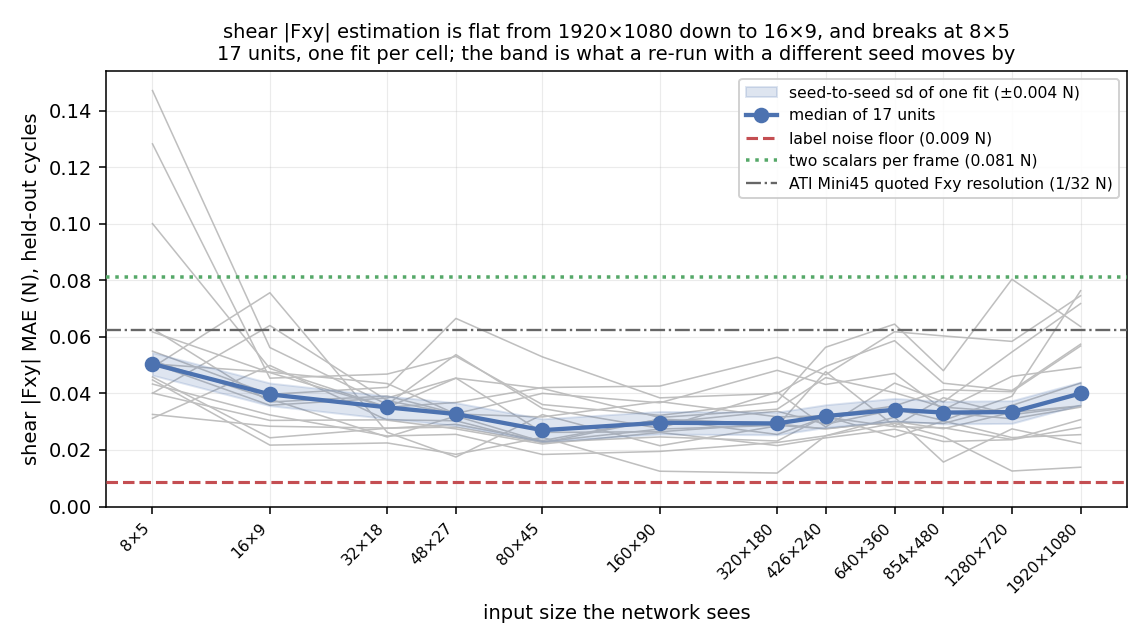
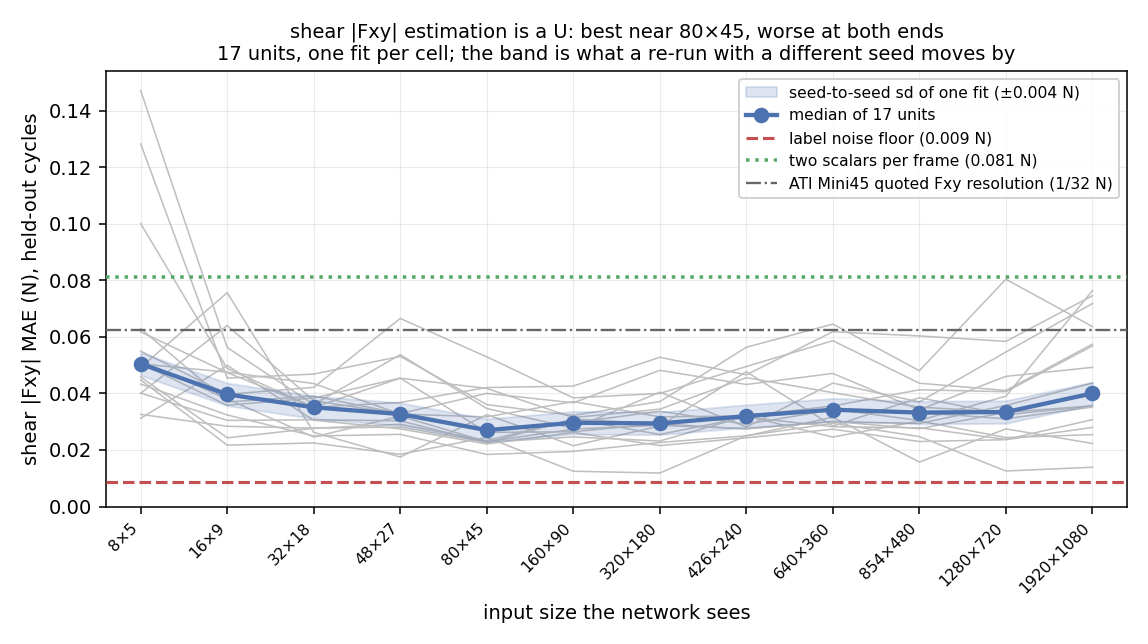
force estimation figures: evenly spaced axes, and the shear plot says what shear does
The y axes went linear in the last commit but the x stayed log, which crowded
640/854/1280/1920 into the right-hand fifth and still read as a log plot. The
twelve sizes are a ladder, not samples of a continuous variable, so x is now
categorical and evenly spaced. y ticks come from a MaxNLocator on 1/2/2.5/5
steps, so they are round and evenly spaced too.

It changes what one figure shows: the shear U -- minimum at 80x45, rising to
both ends -- was flattened on the right by the log x, and reads clearly now.

The shear plot also carried the Fz headline. A single f-string title had put
'flat from 1920x1080 down to 16x9, and breaks at 8x5' above a curve that is
neither flat nor breaking; it is a U. Titles are per-channel now.

diff --git a/scripts/make_force_figures.py b/scripts/make_force_figures.py
@@ -12,7 +12,8 @@ from pathlib import Path
 
 import matplotlib
 matplotlib.use("Agg")
-import matplotlib.pyplot as plt          # noqa: E402
+import matplotlib.pyplot as plt
+from matplotlib.ticker import MaxNLocator          # noqa: E402
 import numpy as np                       # noqa: E402
 import pandas as pd                      # noqa: E402
 from mpl_toolkits.mplot3d import Axes3D   # noqa: F401,E402
@@ -55,15 +56,21 @@ def label_noise(axis="fz"):
 def fig_resolution(f, seed, floor, scalar, col="fz_mae", name="Fz", out="force_vs_resolution.png"):
     fig, ax = plt.subplots(figsize=(8.2, 4.6))
     w = sorted(f.width_px.unique())
+    # x is CATEGORICAL and evenly spaced (operator, 2026-09-08). The twelve
+    # sizes are a ladder, not samples of a continuous variable, and a log x
+    # crowded the four largest into the right-hand fifth of the plot -- which
+    # reads as a log axis even after the y was made linear.
+    xi = {v: i for i, v in enumerate(w)}
     for s, g in f.groupby("sensor"):
         g = g.sort_values("width_px")
-        ax.plot(g.width_px, g[col], color="0.75", lw=0.8, zorder=1)
+        ax.plot([xi[v] for v in g.width_px], g[col], color="0.75", lw=0.8, zorder=1)
     med = f.groupby("width_px")[col].median().reindex(w)
     # the seed band: what one fit scatters by with everything else held fixed
     sd = seed.groupby(["sensor", "width_px"])[col].std(ddof=1).median()
-    ax.fill_between(w, med - sd, med + sd, color="#4c72b0", alpha=.18, zorder=2,
+    X = list(range(len(w)))
+    ax.fill_between(X, med - sd, med + sd, color="#4c72b0", alpha=.18, zorder=2,
                     label=f"seed-to-seed sd of one fit (±{sd:.3f} N)")
-    ax.plot(w, med, "o-", color="#4c72b0", lw=2.2, ms=7, zorder=4,
+    ax.plot(X, med, "o-", color="#4c72b0", lw=2.2, ms=7, zorder=4,
             label="median of 17 units")
     ax.axhline(np.median(list(floor.values())), color="#c44e52", ls="--", lw=1.6,
                zorder=3, label=f"label noise floor ({np.median(list(floor.values())):.3f} N)")
@@ -75,15 +82,18 @@ def fig_resolution(f, seed, floor, scalar, col="fz_mae", name="Fz", out="force_v
     # y is LINEAR (operator, 2026-09-08). A log y flattens the one thing this
     # figure is for -- how much worse 8x5 is than everything above it -- into a
     # step that looks like the wobble between neighbouring sizes.
-    ax.set_xscale("log")
-    ax.set_xticks(w)
+    ax.set_xticks(X)
     hgt = {int(a): int(b) for a, b in zip(f.width_px, f.height_px)}
     ax.set_xticklabels([f"{a}×{hgt[a]}" for a in w], rotation=45, ha="right", fontsize=8)
+    ax.set_xlim(-0.4, len(w) - 0.6)
     ax.set_ylim(0, None)
+    ax.yaxis.set_major_locator(MaxNLocator(nbins=8, steps=[1, 2, 2.5, 5, 10]))
     ax.minorticks_off()
     ax.set_xlabel("input size the network sees")
     ax.set_ylabel(f"{name} MAE (N), held-out cycles")
-    ax.set_title(f"{name} estimation is flat from 1920×1080 down to 16×9, and breaks at 8×5\n"
+    _sub = ("flat from 1920×1080 down to 16×9, and breaks at 8×5" if col == "fz_mae"
+            else "is a U: best near 80×45, worse at both ends")
+    ax.set_title(f"{name} estimation {_sub}\n"
                  "17 units, one fit per cell; the band is what a re-run with a different seed moves by",
                  fontsize=10)
     ax.grid(alpha=.25, lw=.6)
@@ -105,6 +115,8 @@ def fig_per_unit(f, seed, floor, scalar, col="fz_mae", name="Fz", out="force_vs_
     sd = seed.groupby(["sensor", "width_px"])[col].std(ddof=1).median()
     order = [f"{h}_{t}mm_{r}" for t in THICK for r in ("r1", "r2") for h in HARDS]
     w = sorted(f.width_px.unique())
+    xi = {v: i for i, v in enumerate(w)}      # categorical x, as in fig_resolution
+    X = list(range(len(w)))
     hgt = {int(a): int(b) for a, b in zip(f.width_px, f.height_px)}
     fig, axes = plt.subplots(6, 3, figsize=(11.5, 13.5), sharex=True, sharey=True)
     for ax, s in zip(axes.ravel(), order):
@@ -120,13 +132,15 @@ def fig_per_unit(f, seed, floor, scalar, col="fz_mae", name="Fz", out="force_vs_
                    label="label noise floor")
         ax.axhline(scalar[s], color="#55a868", ls=":", lw=1.5, zorder=3,
                    label="two scalars")
-        ax.plot(g.width_px, g[col], "o-", color="#22303f", lw=1.5, ms=4.5, zorder=5)
+        ax.plot([xi[v] for v in g.width_px], g[col], "o-", color="#22303f",
+                lw=1.5, ms=4.5, zorder=5)
         ax.set_title(f"{s}   median {med:.3f} N", fontsize=9.5, pad=4)
         ax.grid(alpha=.22, lw=.5)
     for ax in axes.ravel():
-        ax.set_xscale("log")           # y stays linear, see above
-        ax.set_xticks(w)
+        ax.set_xticks(X)               # categorical x, linear y -- see above
+        ax.set_xlim(-0.4, len(w) - 0.6)
         ax.set_ylim(0, None)
+        ax.yaxis.set_major_locator(MaxNLocator(nbins=5, steps=[1, 2, 2.5, 5, 10]))
         ax.minorticks_off()
     for ax in axes[-1]:
         ax.set_xticklabels([f"{a}×{hgt[a]}" for a in w], rotation=90, fontsize=7)
